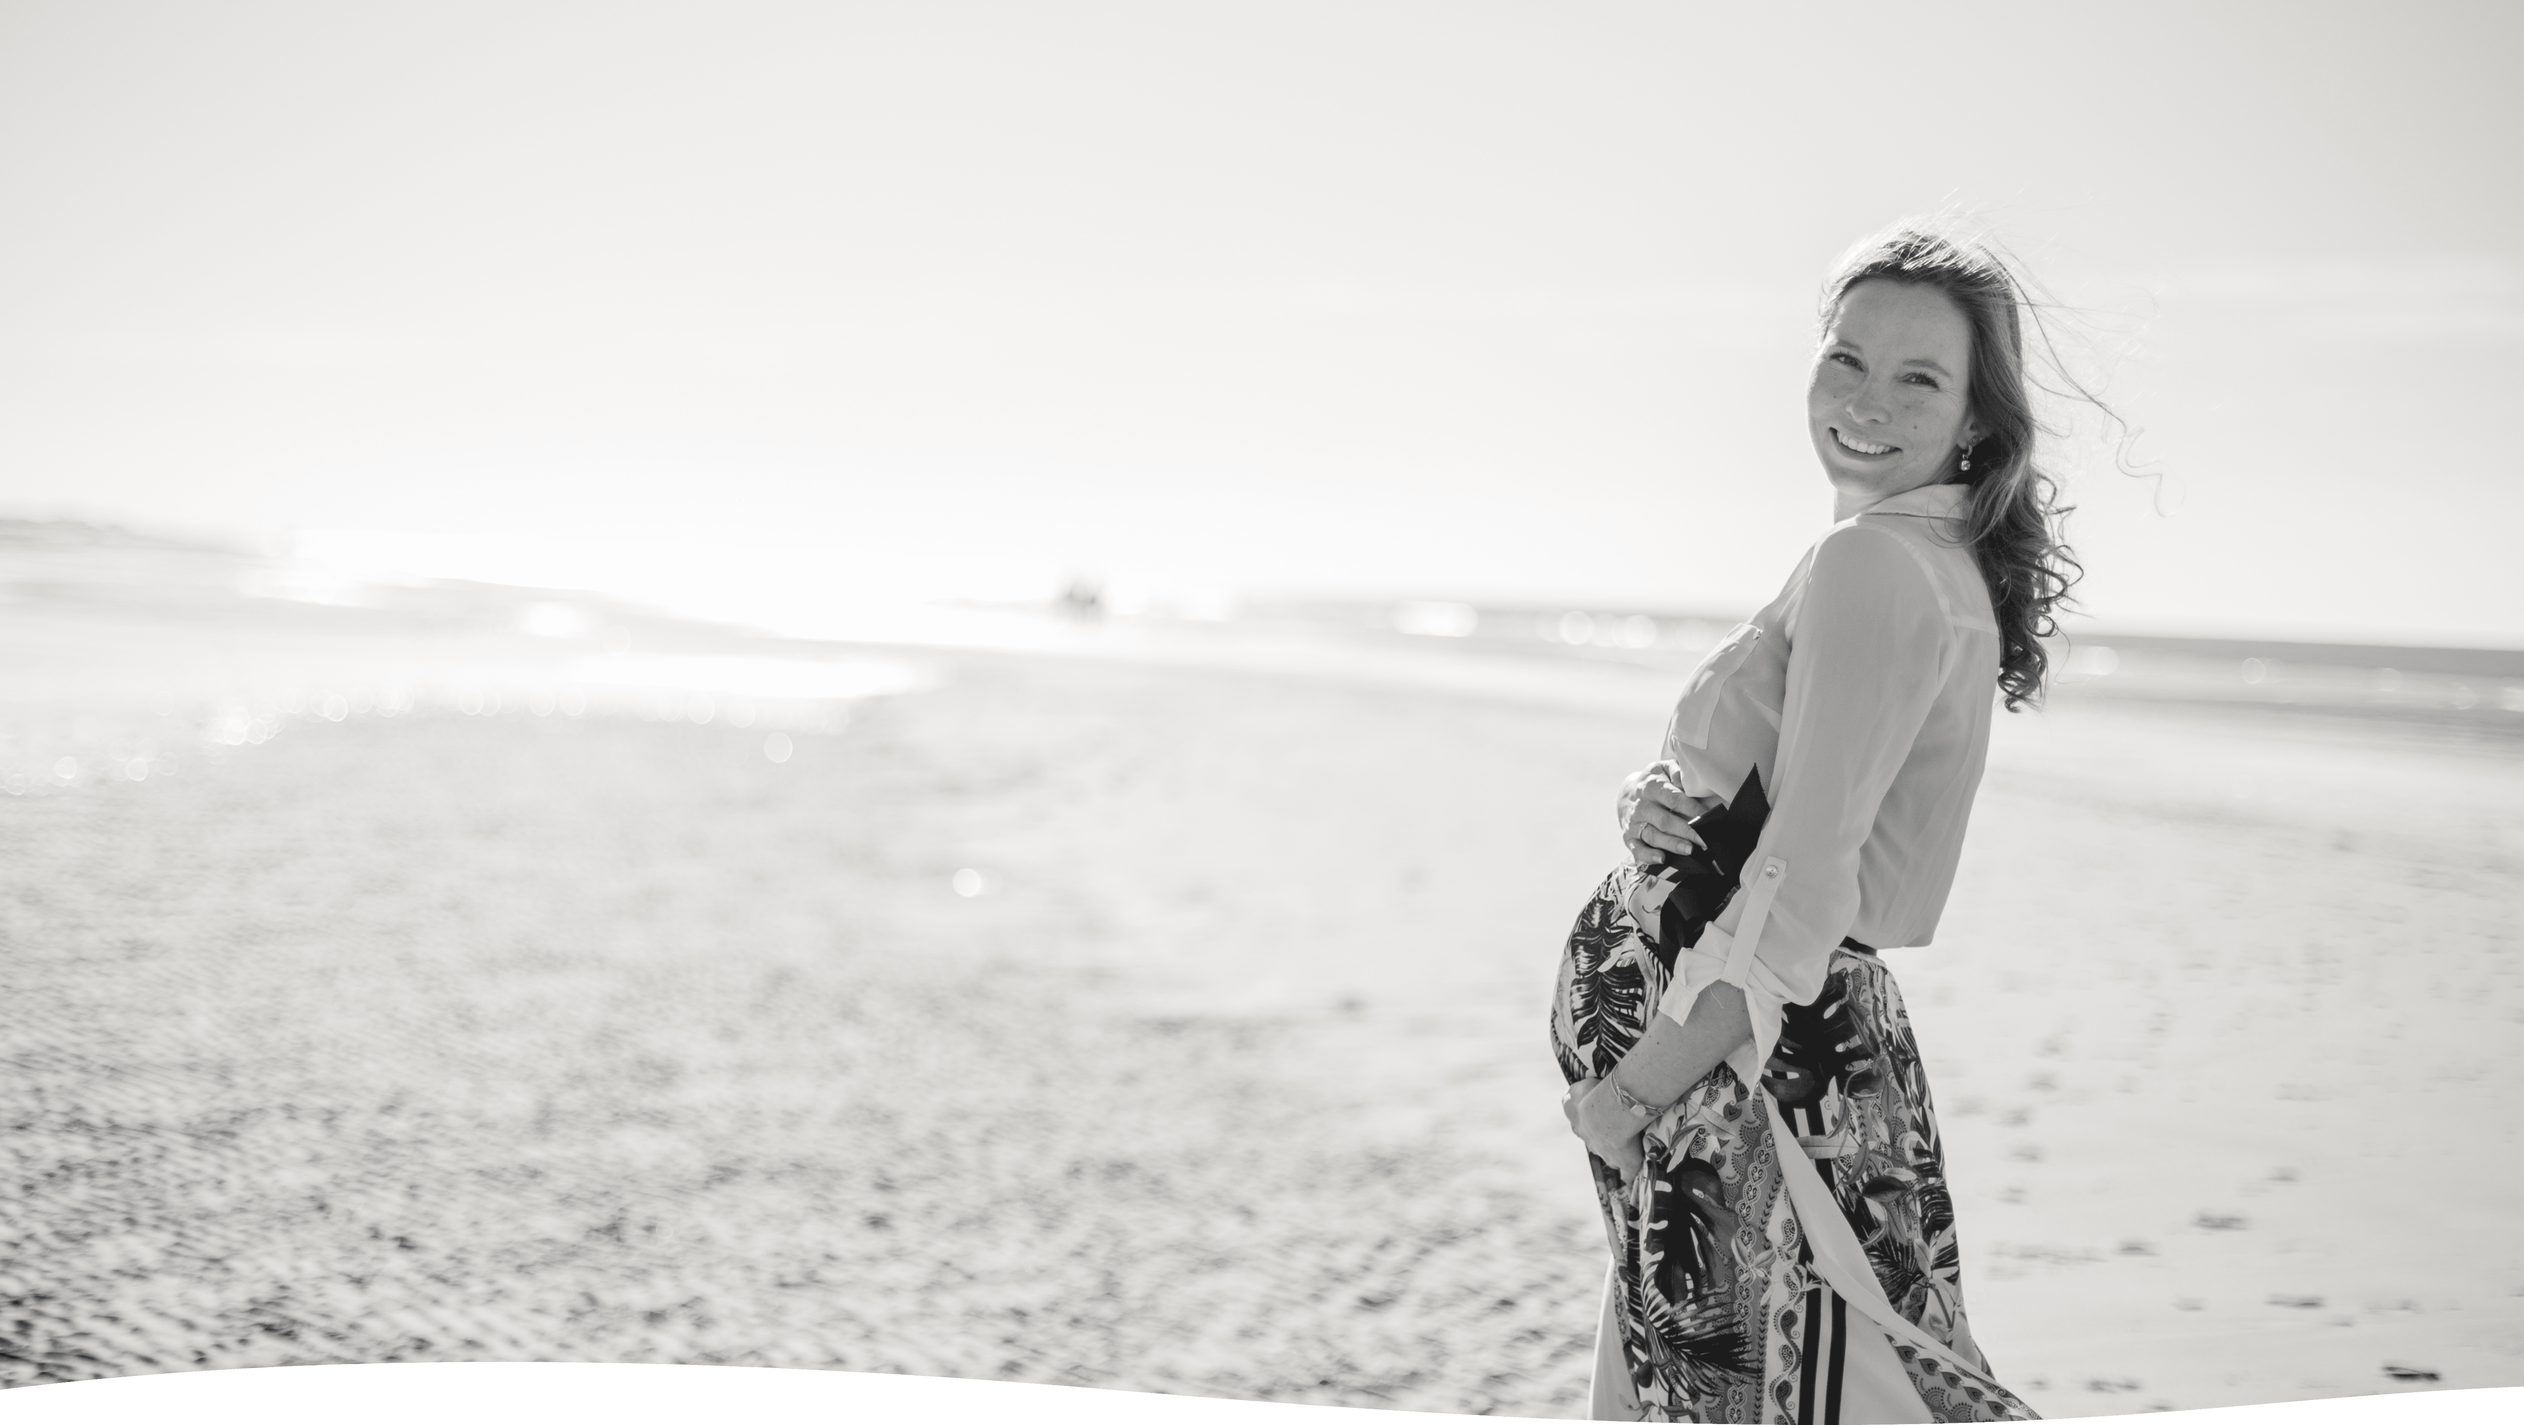
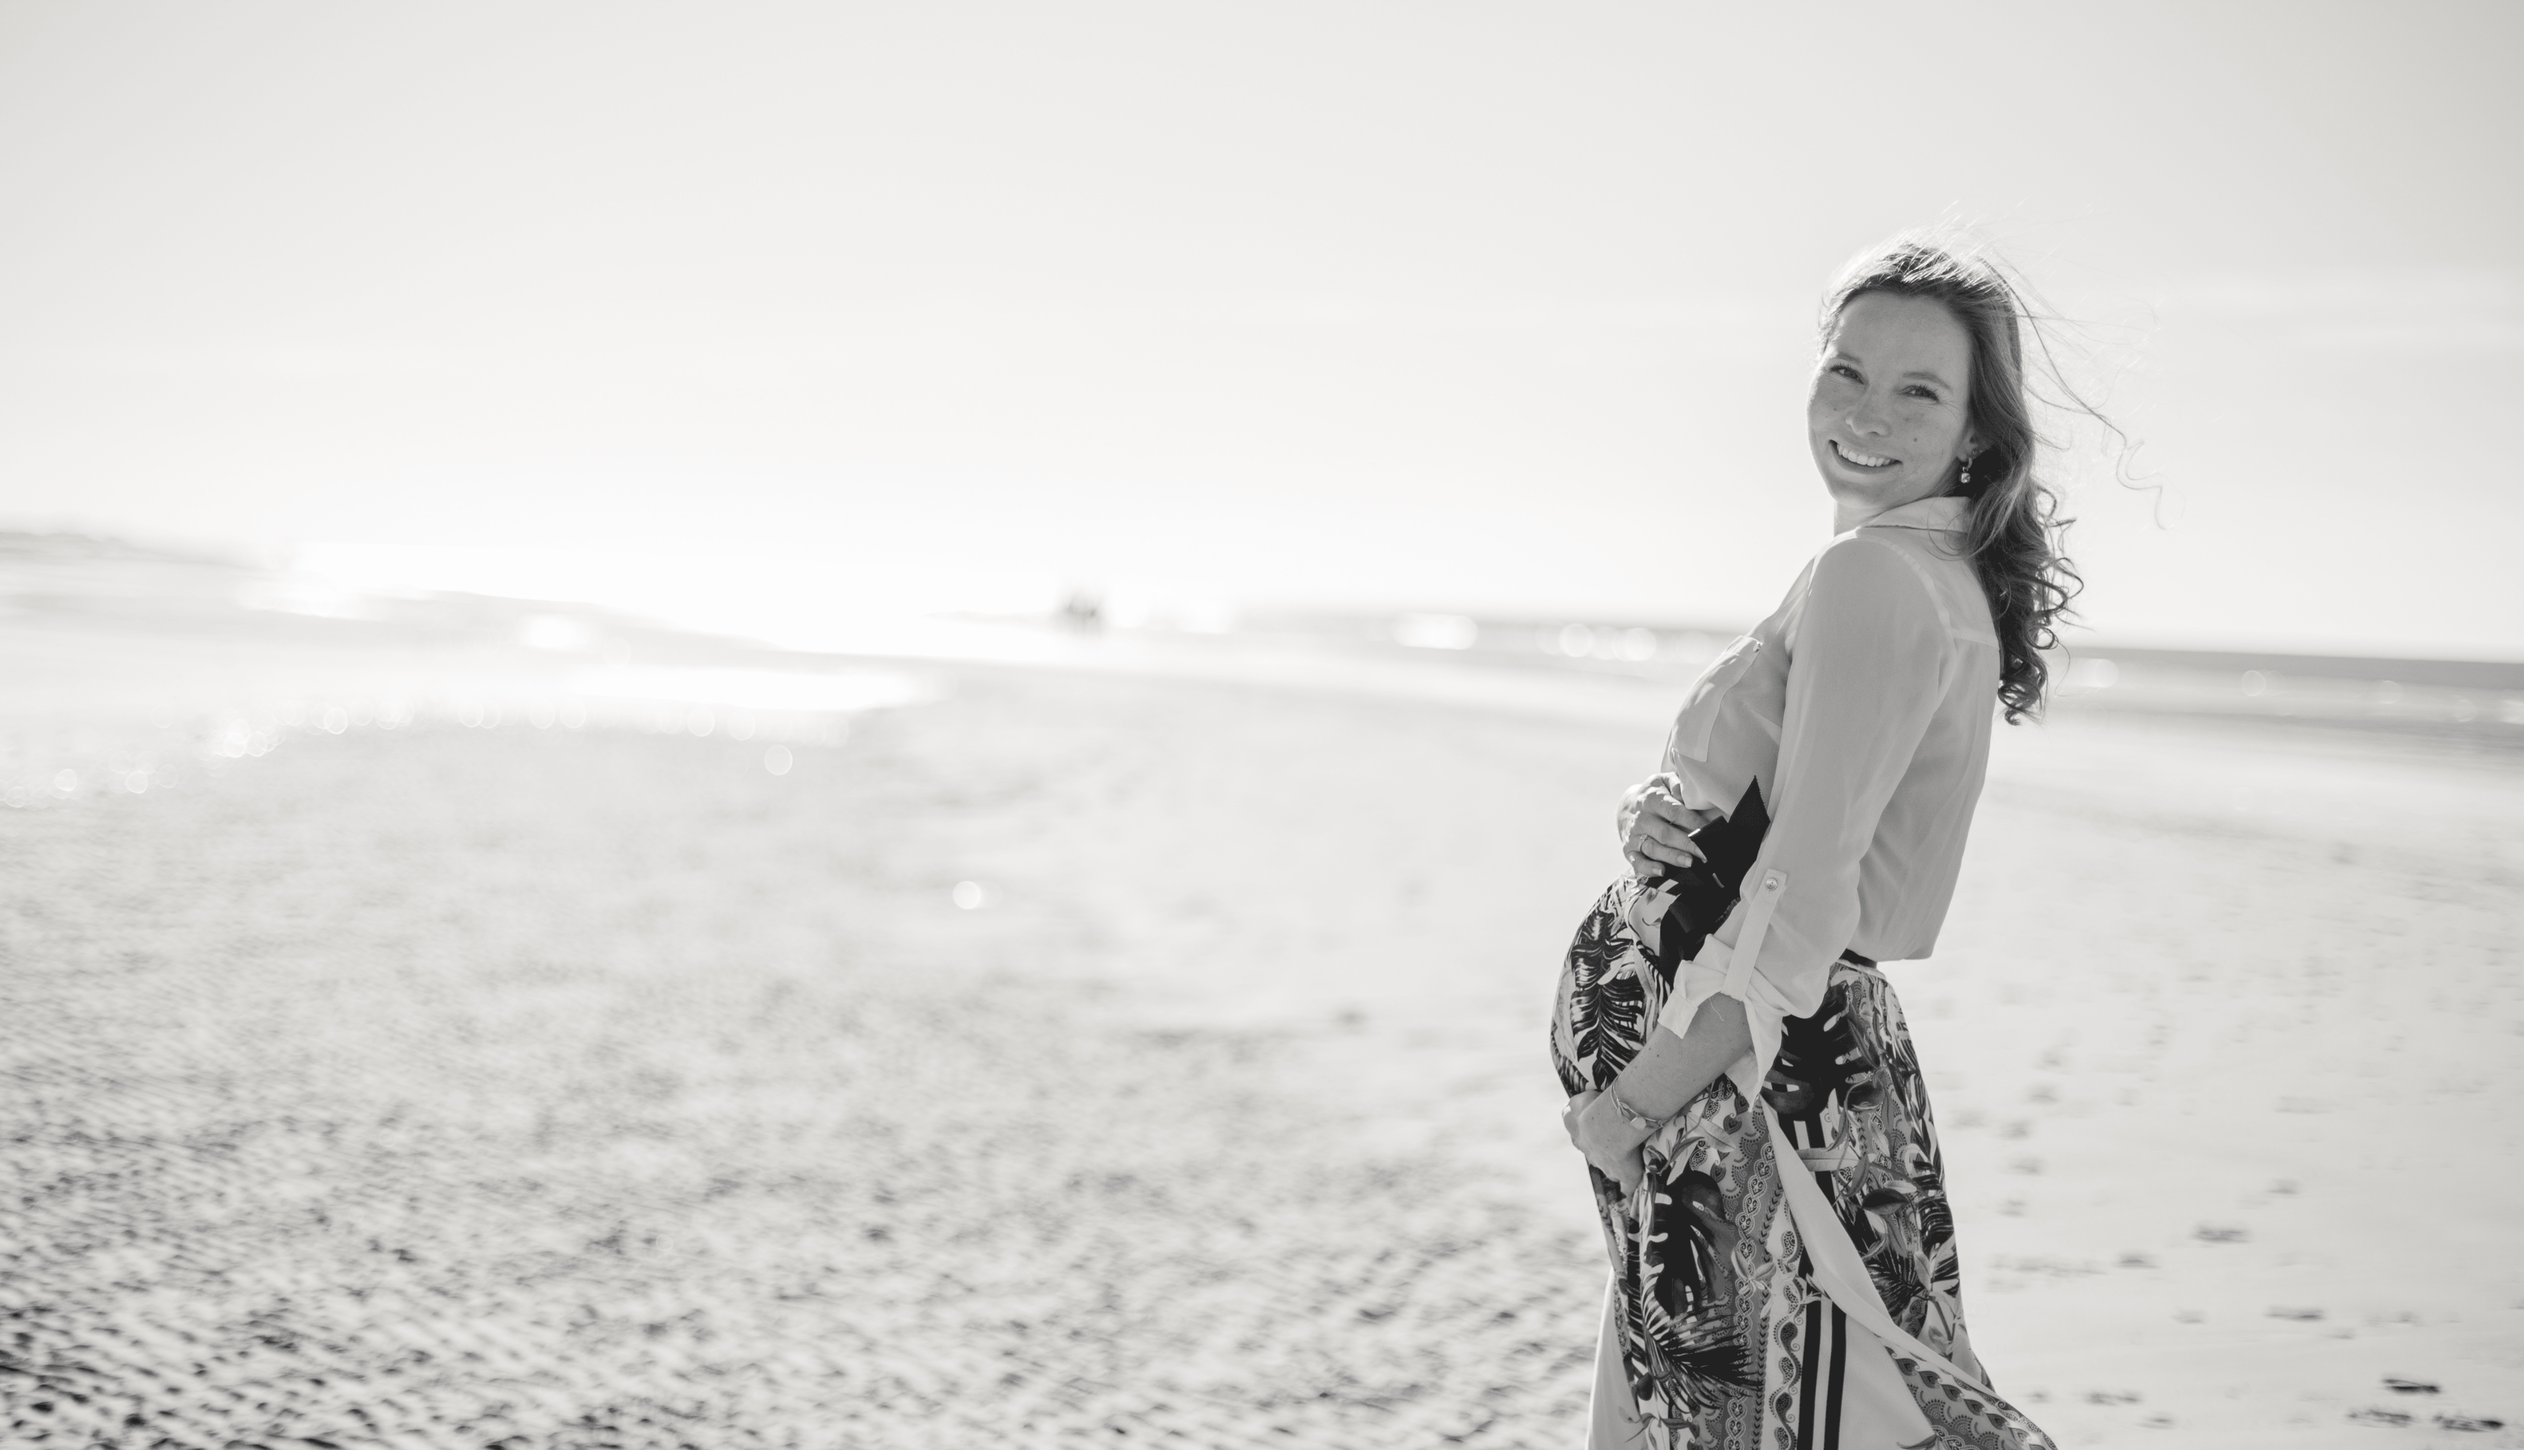
zwangerschapsfotografie header

diff --git a/pages/zwangerschapsfotografie.js b/pages/zwangerschapsfotografie.js
@@ -13,43 +13,33 @@ function zwangerschapsfotografie() {
   return (
     <Fragment>
       <ScrollNavbar fade={true} />
-      {/* <Header
-        img="/images/zwangerschapsfotografie/hero.png"
-        imgMobile="/images/zwangerschapsfotografie/hero-mobile.png"
-        pageTitle2="Zwangerschaps fotografie"
-        whiteTitle
-        pageTitleMobile="Zwanger- schaps fotografie"
-      /> */}
-
       <header className="relative">
-        <div className="hidden sm:block -mt-28 lg:-mt-14">
-          <Image
-            src="/images/zwangerschapsfotografie/hero.png"
-            alt="zwangerschap fotografie"
-            layout="fill"
-            objectFit="cover"
-            priority
-            quality={100}
-          />
-          <div className="hidden sm:block px-5 relative mt-14 max-w-6xl mx-auto min-h-screen">
-            <div className="max-w-3xl absolute bottom-20">
-              <h1 className="text-7xl md:text-8xl lg:text-9xl xl:text-10xl text-center sm:text-left leading-tight font-display uppercase py-4 text-white">
+        <div className="-mt-14 lg:mt-0">
+          <div className="hidden sm:block">
+            <Image
+              src="/images/zwangerschapsfotografie/hero.png"
+              alt="zwangerschap fotografie"
+              layout="fill"
+              objectFit="cover"
+              priority
+              quality={100}
+            />
+          </div>
+          <div className="sm:hidden">
+            <Image
+              src="/images/zwangerschapsfotografie/hero-mobile.png"
+              alt="zwangerschap fotografie"
+              layout="fill"
+              objectFit="cover"
+              priority
+            />
+          </div>
+
+          <div className="px-5 relative max-w-6xl mx-auto min-h-screen">
+            <div className="max-w-3xl absolute bottom-10 sm:bottom-20">
+              <h1 className="hidden sm:block text-7xl md:text-8xl lg:text-9xl xl:text-10xl leading-tight font-display uppercase py-4 text-white">
                 Zwangerschaps fotografie
               </h1>
-            </div>
-          </div>
-        </div>
-
-        <div className="sm:hidden -mt-14">
-          <Image
-            src="/images/zwangerschapsfotografie/hero-mobile.png"
-            alt="zwangerschap fotografie"
-            layout="fill"
-            objectFit="cover"
-            priority
-          />
-          <div className="px-5 relative max-w-6xl mx-auto min-h-screen">
-            <div className="max-w-3xl absolute bottom-10">
               <h1 className="sm:hidden text-6xl leading-tight font-display uppercase py-4 text-white">
                 Zwanger- schaps fotografie
               </h1>

diff --git a/pages/portretfotografie.js b/pages/portretfotografie.js
@@ -16,7 +16,7 @@ function portretfotografie() {
 
       {/* HEADER PORTRETFOTOGRAFIE */}
       <header className="relative">
-        <div className="-mt-14">
+        <div className="-mt-14 lg:mt-0">
           <div className="hidden sm:block">
           <Image
             src="/images/portretfotografie/hero.png"
@@ -40,23 +40,6 @@ function portretfotografie() {
           <div className="px-5 relative max-w-6xl mx-auto min-h-screen">
             <div className="max-w-3xl absolute bottom-10 sm:bottom-20">
               <h1 className="text-6xl sm:text-8xl md:text-9xl xl:text-10xl leading-tight font-display uppercase py-4 text-white">
-                portret fotografie
-              </h1>
-            </div>
-          </div>
-        </div>
-
-        <div className="hidden -mt-14">
-          <Image
-            src="/images/portretfotografie/hero-mobile.png"
-            alt="portret fotografie"
-            layout="fill"
-            objectFit="cover"
-            priority
-          />
-          <div className="px-5 relative max-w-6xl mx-auto min-h-screen">
-            <div className="max-w-3xl absolute bottom-10">
-              <h1 className="sm:hidden text-6xl leading-tight font-display uppercase py-4 text-white">
                 portret fotografie
               </h1>
             </div>

diff --git a/pages/index.js b/pages/index.js
@@ -35,7 +35,7 @@ export default function Home() {
 
       {/* HEADER INDEX */}
       <header className="relative">
-        <div className="-mt-14">
+        <div className="-mt-14 lg:mt-0">
           <div className="hidden sm:block">
             <Image
               src="/images/header/headerIndex.png"
